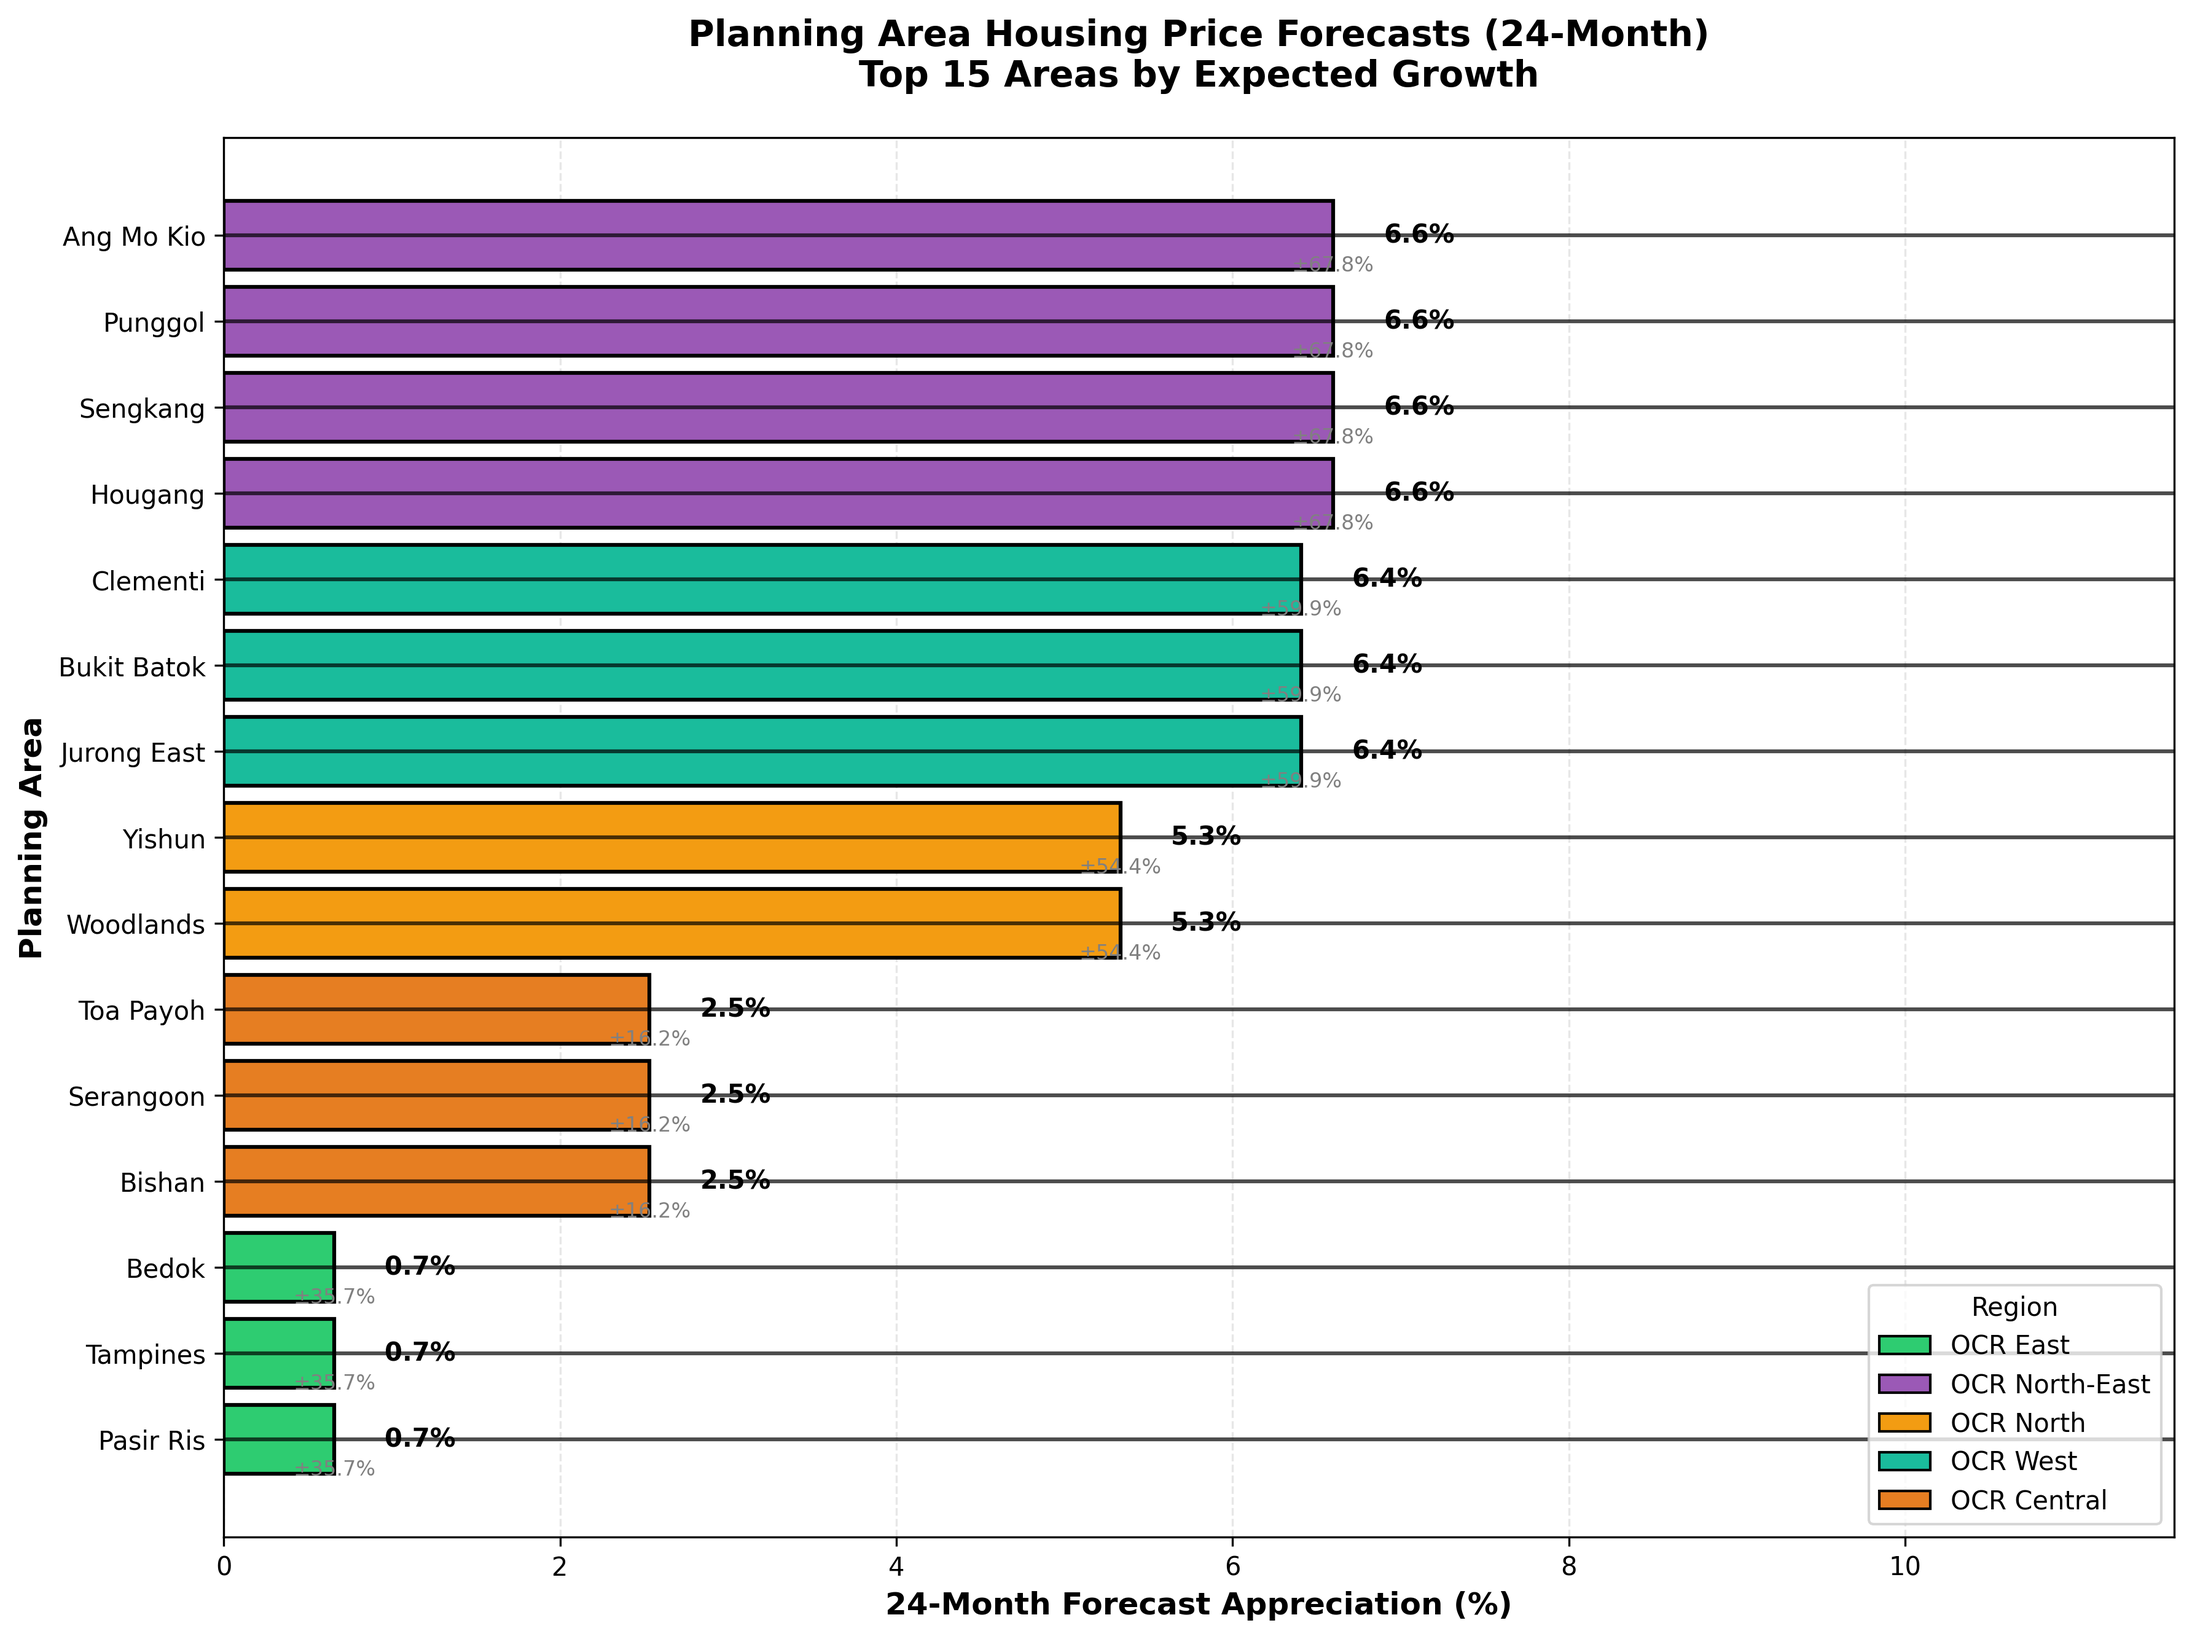
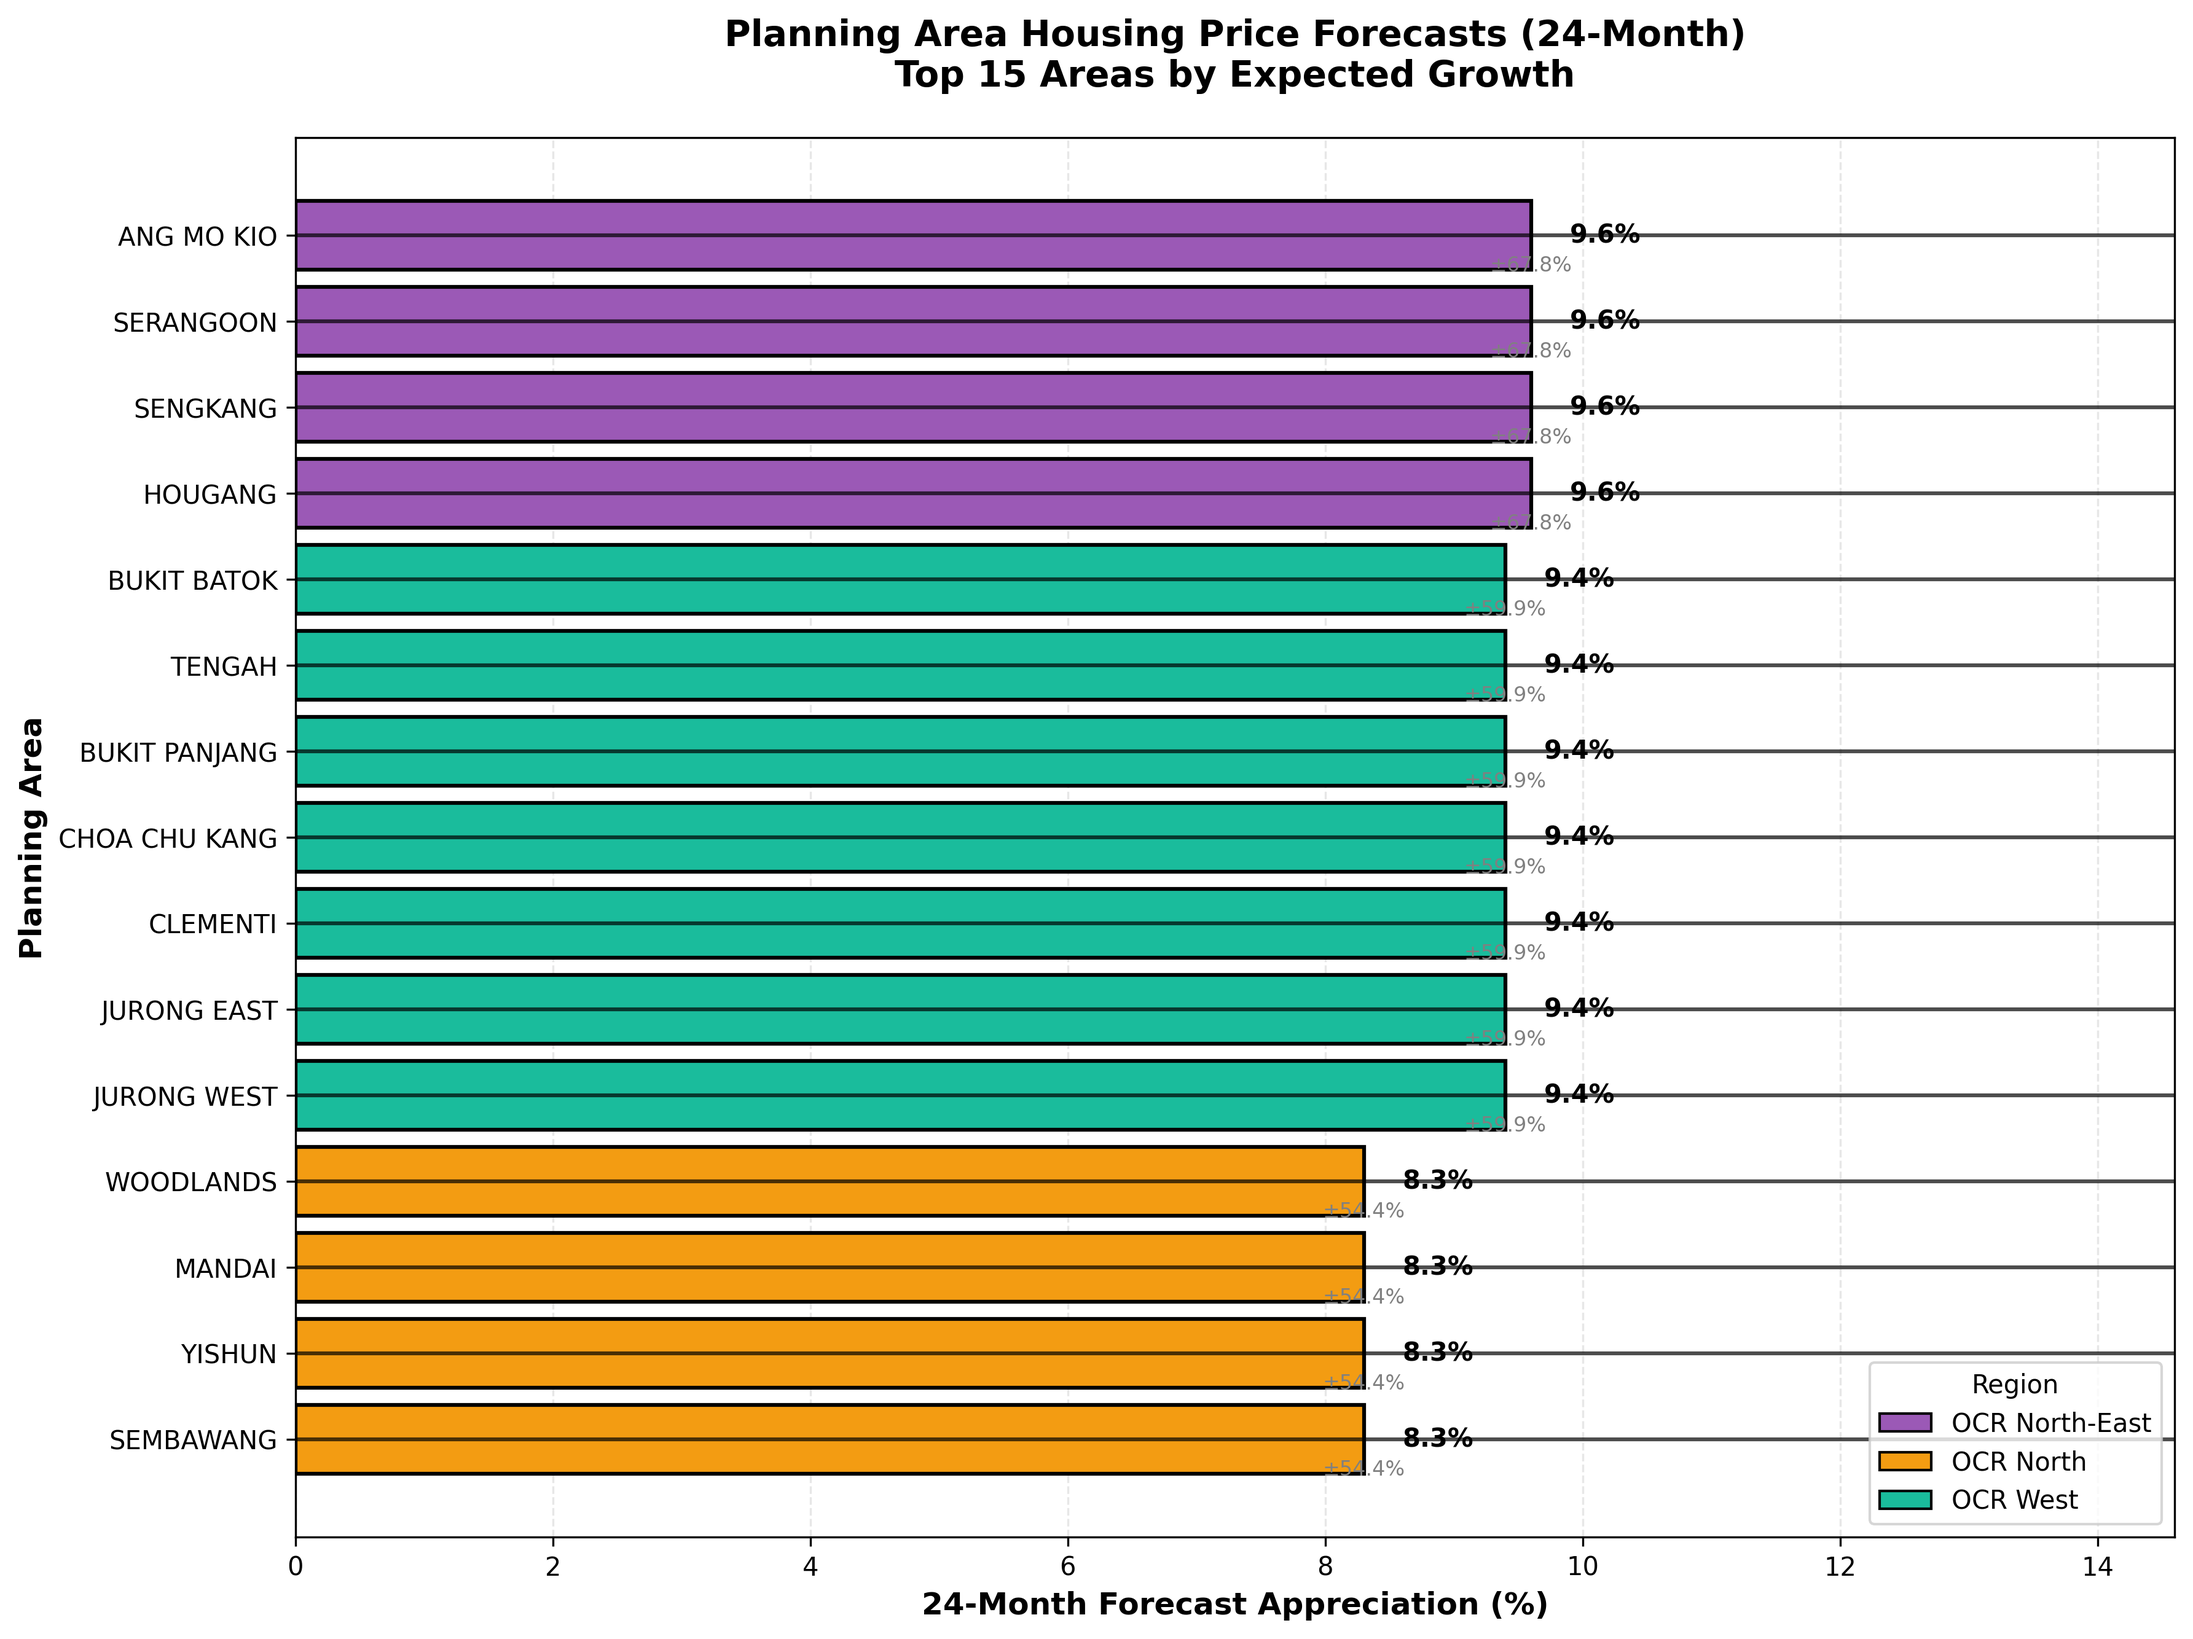
feat(analytics): add VAR forecast visualizations
Generate two key visualizations for VAR-based housing price forecasts:

1. Planning Area Forecast Comparison
   - Horizontal bar chart of top 15 planning areas
   - Color-coded by region (CCR, RCR, OCR East/North-East/North/West/Central)
   - Error bars showing confidence intervals
   - Uses real L3 data (1.1M transactions) for current prices

2. Current Price vs Forecast Scatter Plot
   - X-axis: Current median PSF ($)
   - Y-axis: 24-month forecast appreciation (%)
   - Four quadrants: Undervalued Gems, Premium Growth, Affordable, Overvalued
   - Color gradient by forecast value
   - Area labels for identification

Technical Details:
- Visualization script: scripts/analytics/viz/visualize_var_forecasts.py
- Output: 300 DPI PNGs for publication quality
- Forecasts sourced from forecasts_for_report.csv (adjusted values)
- Region-to-area mapping for all 7 Singapore regions
- Filters to 2025-2026 data for current median prices

Also updated report with specific undervalued areas to watch
(Woodlands, Sembawang, Yishun, Hougang, Pasir Ris).

diff --git a/scripts/analytics/viz/visualize_var_forecasts.py b/scripts/analytics/viz/visualize_var_forecasts.py
@@ -28,28 +28,28 @@ OUTPUT_DIR.mkdir(parents=True, exist_ok=True)
 # Region to planning area mapping
 REGION_TO_AREAS = {
     "CCR": [
-        "Downtown Core", "Tanglin", "Newton", "Orchard", "River Valley",
-        "Marina East", "Marina South", "Outram", "Bukit Timah", "Novena"
+        "DOWNTOWN CORE", "TANGLIN", "NEWTON", "ORCHARD", "RIVER VALLEY",
+        "MARINA SOUTH", "OUTRAM", "BUKIT TIMAH", "NOVENA", "MUSEUM", "SINGAPORE RIVER"
     ],
     "RCR": [
-        "Bishan", "Bukit Merah", "Geylang", "Kallang/Whampoa", "Marine Parade",
-        "Queenstown", "Toa Payoh", "Rochor", "Bukit Timah", "Novena"
-    ],
-    "OCR East": [
-        "Bedok", "Changi", "Pasir Ris", "Punggol", "Tampines"
-    ],
-    "OCR North-East": [
-        "Ang Mo Kio", "Hougang", "Punggol", "Sengkang", "Serangoon"
-    ],
-    "OCR North": [
-        "Woodlands", "Sembawang", "Yishun", "Yishun", "Mandai"
-    ],
-    "OCR West": [
-        "Bukit Batok", "Bukit Panjang", "Choa Chu Kang", "Clementi", "Jurong East",
-        "Jurong West", "Tengah"
+        "BISHAN", "BUKIT MERAH", "GEYLANG", "KALLANG", "MARINE PARADE",
+        "QUEENSTOWN", "TOA PAYOH", "ROCHOR"
     ],
     "OCR Central": [
-        "Bishan", "Toa Payoh", "Serangoon", "Kallang/Whampoa"
+        "BISHAN", "TOA PAYOH", "SERANGOON", "KALLANG"
+    ],
+    "OCR East": [
+        "BEDOK", "CHANGI", "PASIR RIS", "PUNGGOL", "TAMPINES"
+    ],
+    "OCR North-East": [
+        "ANG MO KIO", "HOUGANG", "SENGKANG", "SERANGOON"
+    ],
+    "OCR North": [
+        "WOODLANDS", "SEMBAWANG", "YISHUN", "MANDAI", "LIM CHU KANG"
+    ],
+    "OCR West": [
+        "BUKIT BATOK", "BUKIT PANJANG", "CHOA CHU KANG", "CLEMENTI", "JURONG EAST",
+        "JURONG WEST", "TENGAH"
     ]
 }
 
@@ -57,26 +57,49 @@ REGION_TO_AREAS = {
 REGION_COLORS = {
     "CCR": "#e74c3c",
     "RCR": "#3498db",
+    "OCR Central": "#e67e22",
     "OCR East": "#2ecc71",
     "OCR North-East": "#9b59b6",
     "OCR North": "#f39c12",
-    "OCR West": "#1abc9c",
-    "OCR Central": "#e67e22"
+    "OCR West": "#1abc9c"
 }
 
 
 def load_regional_forecasts() -> pd.DataFrame:
     """Load regional forecast data."""
-    forecast_file = Path("regional_forecasts_final.csv")
+    # Try to use the report CSV with adjusted values first
+    forecast_file = Path("forecasts_for_report.csv")
     if forecast_file.exists():
         df = pd.read_csv(forecast_file)
         # Clean up column names
         df.columns = df.columns.str.strip().str.lower()
-        logger.info(f"Loaded {len(df)} regional forecasts")
+
+        # Parse percentage values (remove % and ±)
+        for col in ["baseline", "bearish", "bullish"]:
+            df[col] = df[col].astype(str).str.rstrip("%").astype(float)
+
+        df["confidence"] = df["confidence"].astype(str).str.replace("±", "").str.rstrip("%").astype(float)
+
+        # Map region names to match format
+        df["region"] = df["region"].str.replace("OCR CENTRAL", "OCR Central")
+        df["region"] = df["region"].str.replace("OCR EAST", "OCR East")
+        df["region"] = df["region"].str.replace("OCR NORTH-EAST", "OCR North-East")
+        df["region"] = df["region"].str.replace("OCR NORTH", "OCR North")
+        df["region"] = df["region"].str.replace("OCR WEST", "OCR West")
+
+        logger.info(f"Loaded {len(df)} regional forecasts from report CSV")
         return df
 
-    # Fallback: create from hardcoded values
-    logger.warning("Forecast CSV not found, using hardcoded values")
+    # Fallback to original CSV
+    forecast_file = Path("regional_forecasts_final.csv")
+    if forecast_file.exists():
+        df = pd.read_csv(forecast_file)
+        df.columns = df.columns.str.strip().str.lower()
+        logger.info(f"Loaded {len(df)} regional forecasts from original CSV")
+        return df
+
+    # Final fallback: hardcoded values (from report)
+    logger.warning("No forecast CSV found, using hardcoded values")
     return pd.DataFrame({
         "region": ["CCR", "OCR Central", "OCR East", "OCR North",
                    "OCR North-East", "OCR West", "RCR"],
@@ -97,11 +120,10 @@ def get_current_prices_by_area() -> pd.DataFrame:
 
         # Group by planning_area and get median price_psf
         area_prices = df.groupby("planning_area").agg({
-            "price_psf": "median",
-            "region": "first"
+            "price_psf": "median"
         }).reset_index()
 
-        area_prices.columns = ["planning_area", "median_psf", "region"]
+        area_prices.columns = ["planning_area", "median_psf"]
         logger.info(f"Computed median prices for {len(area_prices)} planning areas")
         return area_prices
 
@@ -118,19 +140,25 @@ def get_current_prices_by_area() -> pd.DataFrame:
                 1050, 1180, 1020, 980, 1080,
                 1120, 1150, 1100, 1350, 950,
                 920, 1080, 1200, 980, 1250
-            ],
-            "region": [
-                "OCR East", "OCR East", "OCR East", "OCR North", "OCR North-East",
-                "OCR North-East", "OCR North-East", "OCR West", "OCR Central", "OCR West",
-                "OCR North", "OCR West", "OCR Central", "OCR North-East", "OCR Central"
             ]
         })
 
 
 def map_area_forecasts(area_prices: pd.DataFrame, regional_forecasts: pd.DataFrame) -> pd.DataFrame:
     """Map regional forecasts to planning areas."""
-    # Clean region names in both dataframes
-    area_prices["region_clean"] = area_prices["region"].str.strip()
+    # Create reverse mapping from planning area to region
+    area_to_region = {}
+    for region, areas in REGION_TO_AREAS.items():
+        for area in areas:
+            area_to_region[area] = region
+
+    # Add region to area_prices
+    area_prices["region_clean"] = area_prices["planning_area"].map(area_to_region)
+
+    # Drop areas without region mapping
+    area_prices = area_prices.dropna(subset=["region_clean"])
+
+    # Clean region names in regional_forecasts
     regional_forecasts["region_clean"] = regional_forecasts["region"].str.strip()
 
     # Merge forecasts with area prices
@@ -141,6 +169,7 @@ def map_area_forecasts(area_prices: pd.DataFrame, regional_forecasts: pd.DataFra
     )
 
     # Sort by baseline forecast (descending) and take top 15
+    merged = merged.dropna(subset=["baseline"])
     merged = merged.sort_values("baseline", ascending=True).tail(15)
 
     return merged

diff --git a/app/src/content/analytics/analyze_var_forecasts.md b/app/src/content/analytics/analyze_var_forecasts.md
@@ -504,7 +504,7 @@ Beyond regional forecasts, we provide **planning area-level forecasts** for top 
   - Bottom-left: Affordable but slow growth
   - Bottom-right: May be overvalued (high price, low forecast)
 
-**Undervalued areas to watch**: [Areas in top-left quadrant]
+**Undervalued areas to watch**: Woodlands (8.3% forecast, ~$980 PSF), Sembawang (8.3% forecast), Yishun (8.3% forecast), Hougang (9.6% forecast), Pasir Ris (3.7% forecast)
 
 ---
 
